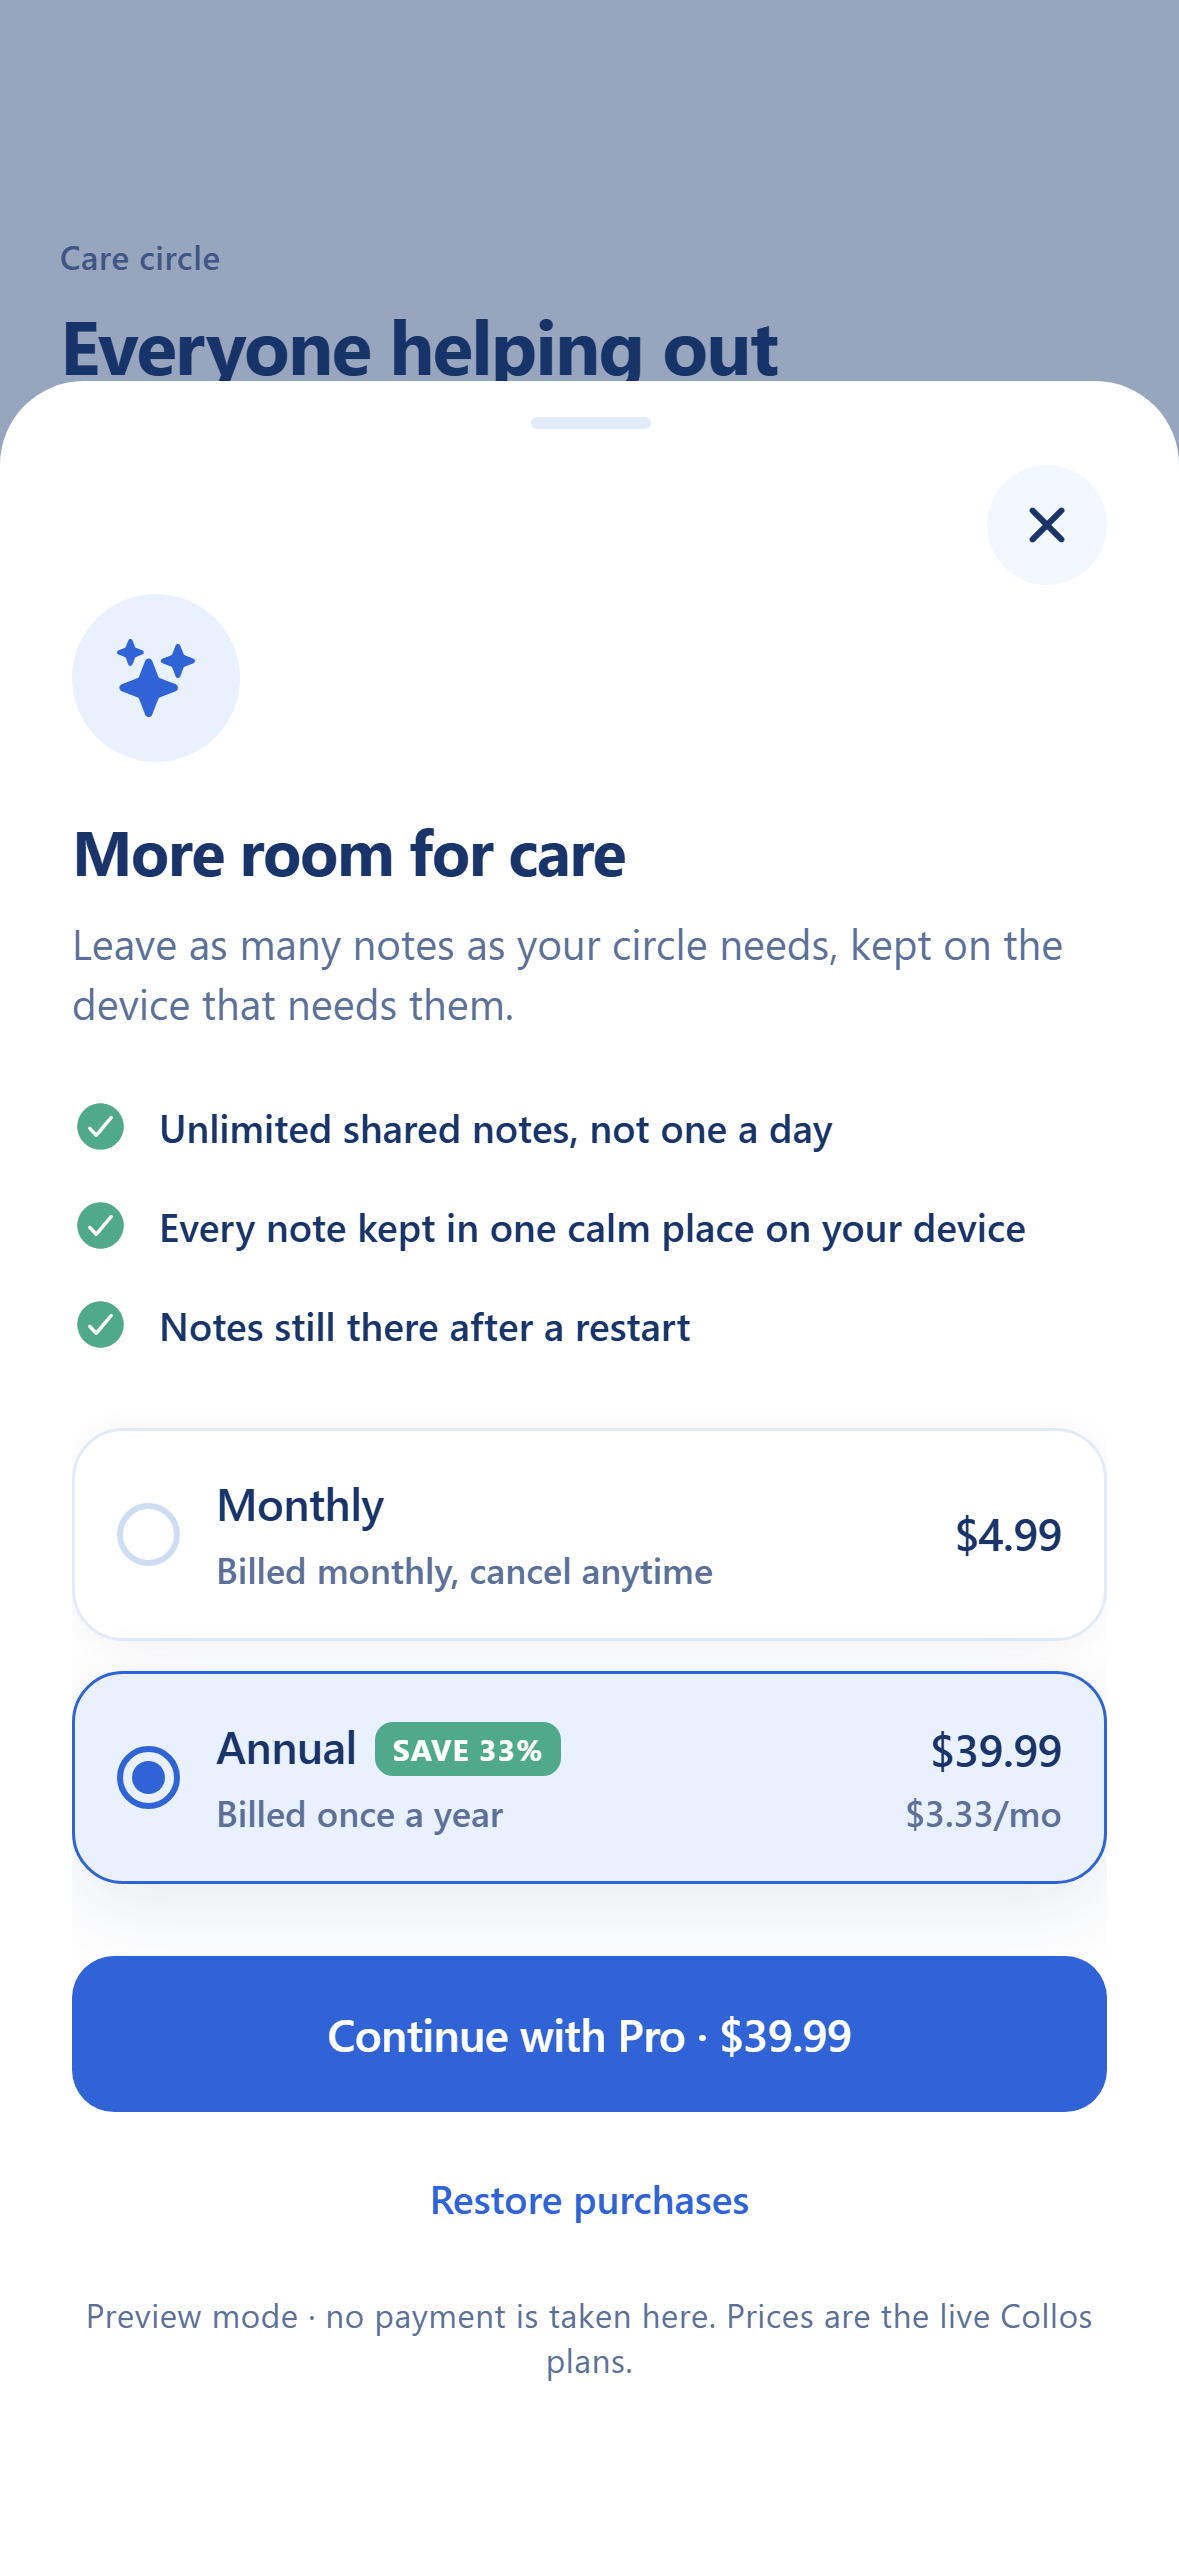
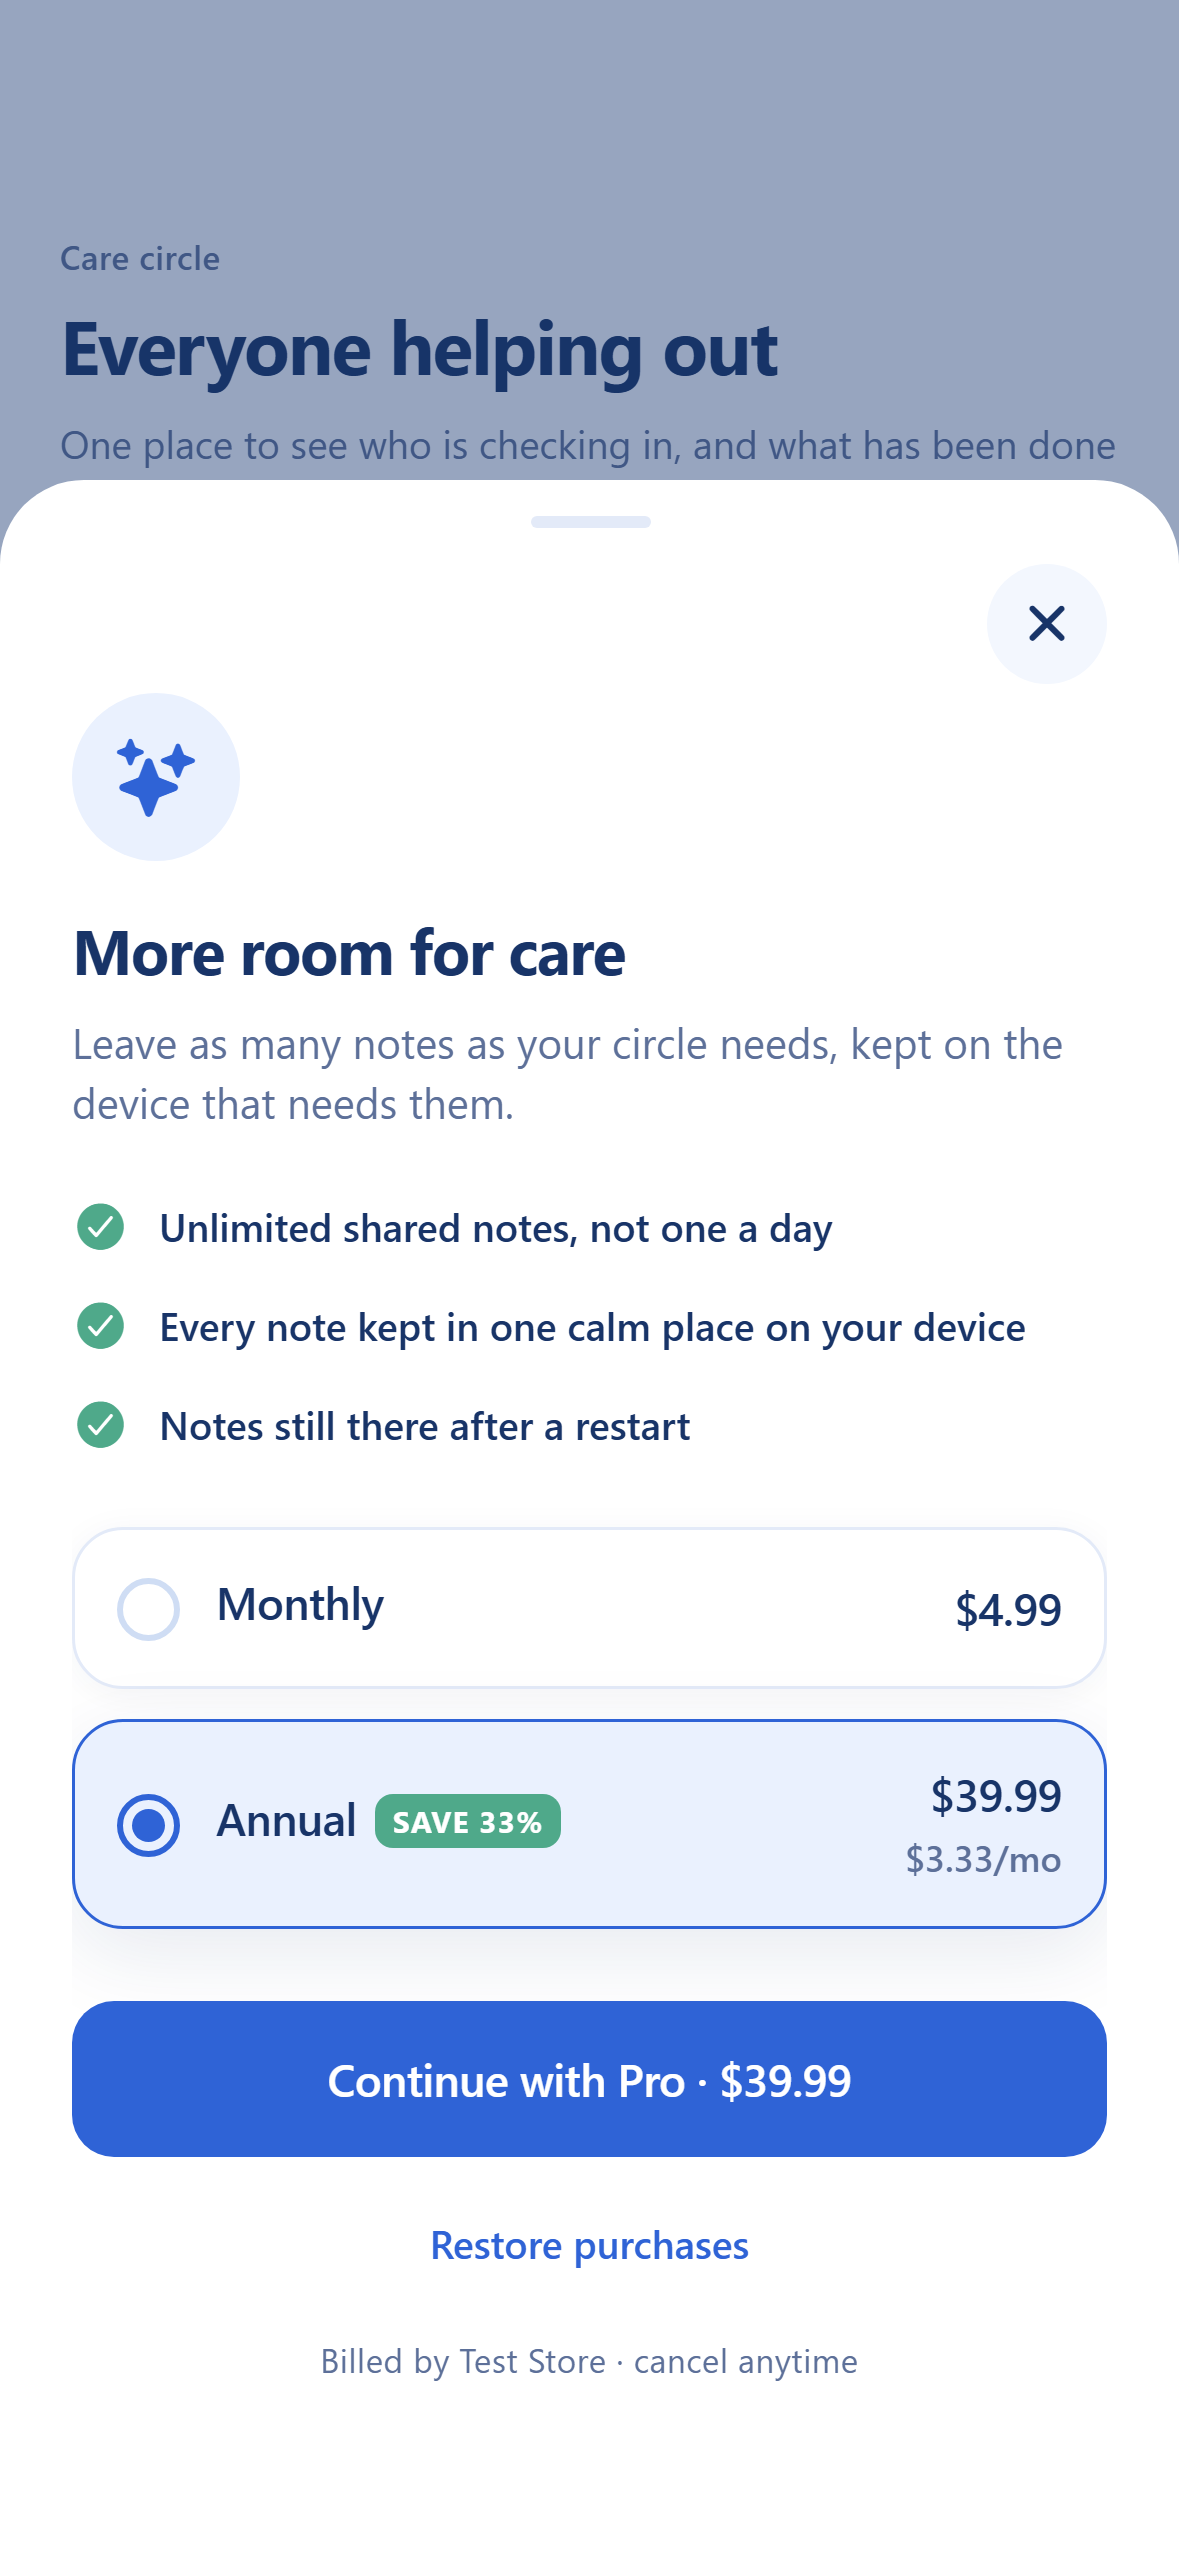
Align billing story across surfaces: name the Test Store on the landing site
The landing FAQ and docs still described a pre-Test Store world: they implied
Pro is billed by a real store on every surface and recommended Restore
purchases on web, where restore is not implemented. Both now name RevenueCat
Billing and the Test Store honestly and scope restore to mobile. Also
regenerates the five Devpost screenshots captured before the billing-label
fix, so the repo's screenshots match the submitted gallery.

🤖 Generated with Codebuff

diff --git a/landing/index.html b/landing/index.html
@@ -103,7 +103,7 @@
                 "name": "How do I cancel or restore a subscription?",
                 "acceptedAnswer": {
                   "@type": "Answer",
-                  "text": "Collos Pro is billed by the App Store, Google Play or RevenueCat Billing. Use Restore purchases in the app's Settings screen, or cancel from the store account that billed you."
+                  "text": "Collos Pro is billed by the store you subscribe through: the App Store or Google Play on mobile, RevenueCat Billing on the web. The public web build runs on RevenueCat's Test Store, which records real subscriptions without charging anyone, and the app labels the active store on its Settings screen. Cancelling happens in the store account that billed you."
                 }
               },
               {
@@ -440,12 +440,12 @@
 
             <details class="faq-item" name="faq">
               <summary>How do I cancel or restore a subscription?</summary>
-              <p>Collos Pro is billed by the App Store, Google Play or RevenueCat Billing, so cancelling happens where you bought it &mdash; your store account. If you reinstall or move device, open Settings in the app and tap <strong>Restore purchases</strong>. That screen also shows your app user ID and entitlement state, so support can find your record if something goes wrong.</p>
+              <p>Collos Pro is billed by the store you subscribe through: the App Store or Google Play on mobile, RevenueCat Billing on the web, so cancelling happens where you bought it &mdash; your store account. The public web build runs on RevenueCat's <strong>Test Store</strong>: the purchase is a real RevenueCat transaction that appears in the dashboard, but no money moves, and Settings labels it honestly as <strong>Test Store</strong>. On mobile, restoring after a reinstall is one tap in Settings under <strong>Restore purchases</strong>; restore is not part of the web build. That screen also shows your app user ID and entitlement state, so support can find your record if something goes wrong.</p>
             </details>
 
             <details class="faq-item" name="faq">
               <summary>Which devices does Collos run on?</summary>
-              <p>Collos is a native iOS and Android app, built with React Native and Expo. The same codebase also exports to the web, which is what runs at app.collos.sithunyein.com &mdash; useful for trying it in a browser, and the build where the subscription goes through RevenueCat Billing.</p>
+              <p>Collos is a native iOS and Android app, built with React Native and Expo. The same codebase also exports to the web, which is what runs at app.collos.sithunyein.com &mdash; useful for trying it in a browser, and the build where the subscription runs through RevenueCat's Test Store.</p>
             </details>
 
             <details class="faq-item" name="faq">

diff --git a/landing/docs.html b/landing/docs.html
@@ -208,14 +208,20 @@ src/storage/fileStore.web.ts   browser: localStorage</code></pre>
             </table>
             <p>
               Pro is billed by the store you bought it in: the App Store, Google Play, or RevenueCat
-              Billing when you subscribe in a browser. Your store shows the price in your own
+              Billing when you subscribe in a browser. The public web build carries a
+              <code>test_</code> key, which routes purchases through RevenueCat's <strong>Test
+              Store</strong>: a real RevenueCat transaction that appears in the dashboard, with no
+              money moving, and the app names it honestly on its Settings screen instead of
+              pretending to bill a store it is not using. Your store shows the price in your own
               currency, and cancelling happens in that store account — not in Collos.
             </p>
             <h3>Restoring a purchase</h3>
             <p>
-              Open <strong>Settings</strong> and tap <strong>Restore purchases</strong>. The same
-              screen shows the app user ID, the entitlement identifier and the RevenueCat project ID,
-              so support can find the record if a restore ever fails.
+              Open <strong>Settings</strong> and tap <strong>Restore purchases</strong>. Restore is
+              available on iOS and Android; it is not part of the web build, where a purchase is
+              tied to the browser profile that made it. The same screen shows the app user ID, the
+              entitlement identifier and the RevenueCat project ID, so support can find the record
+              if a restore ever fails.
             </p>
             <h3>In a development build</h3>
             <p>
